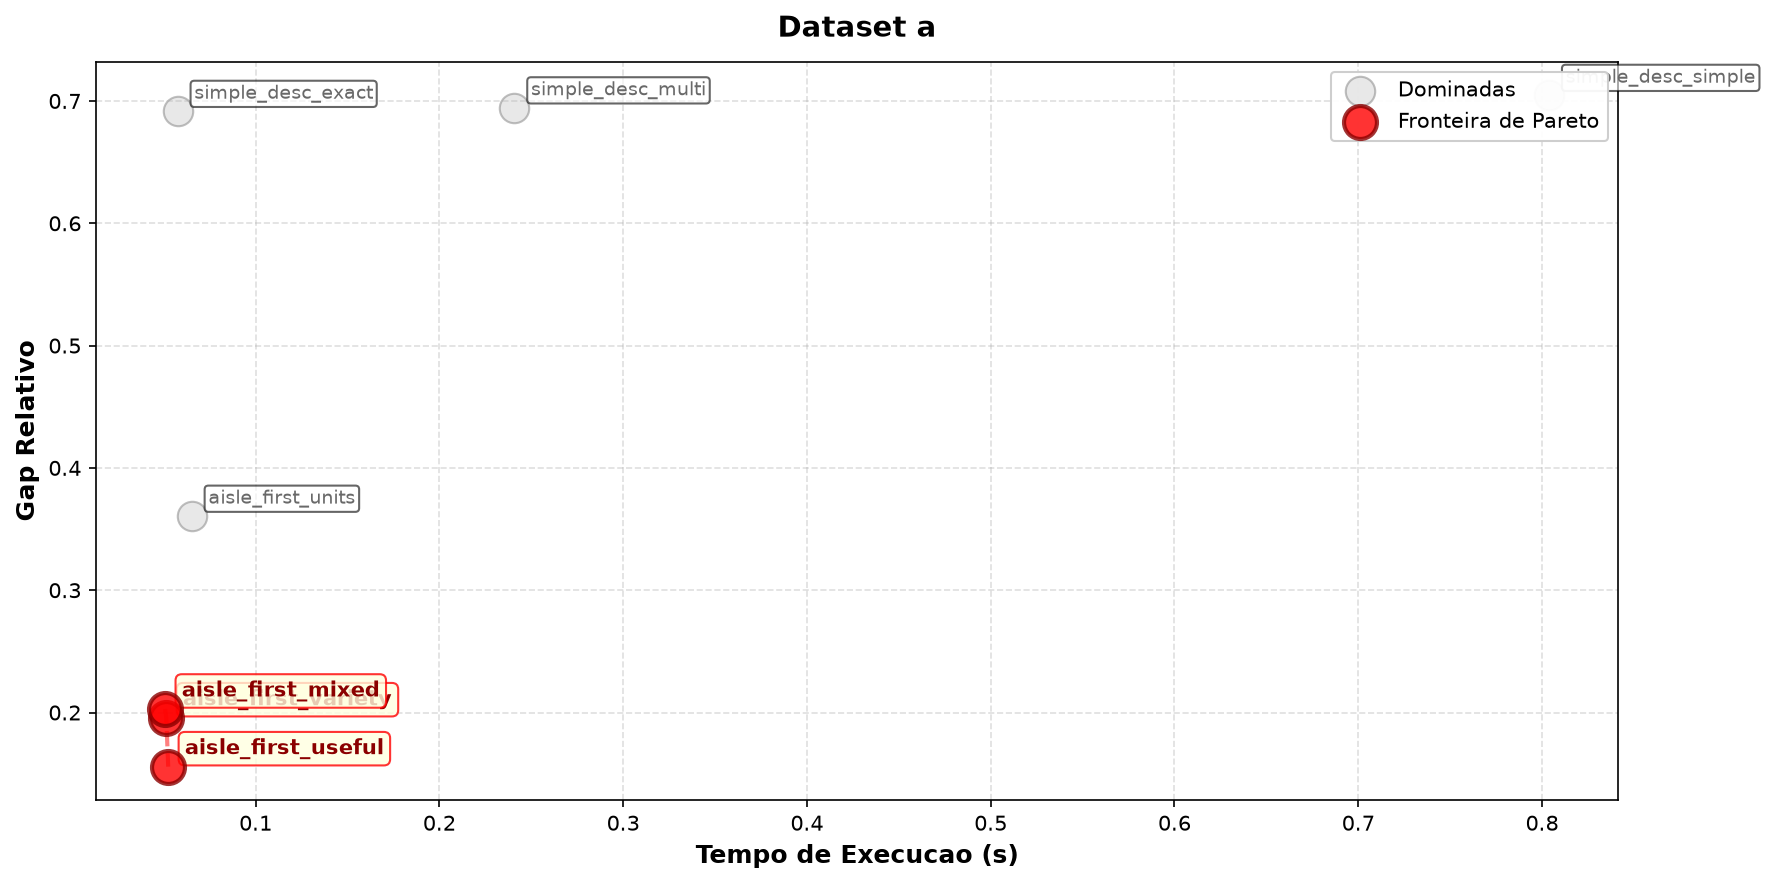
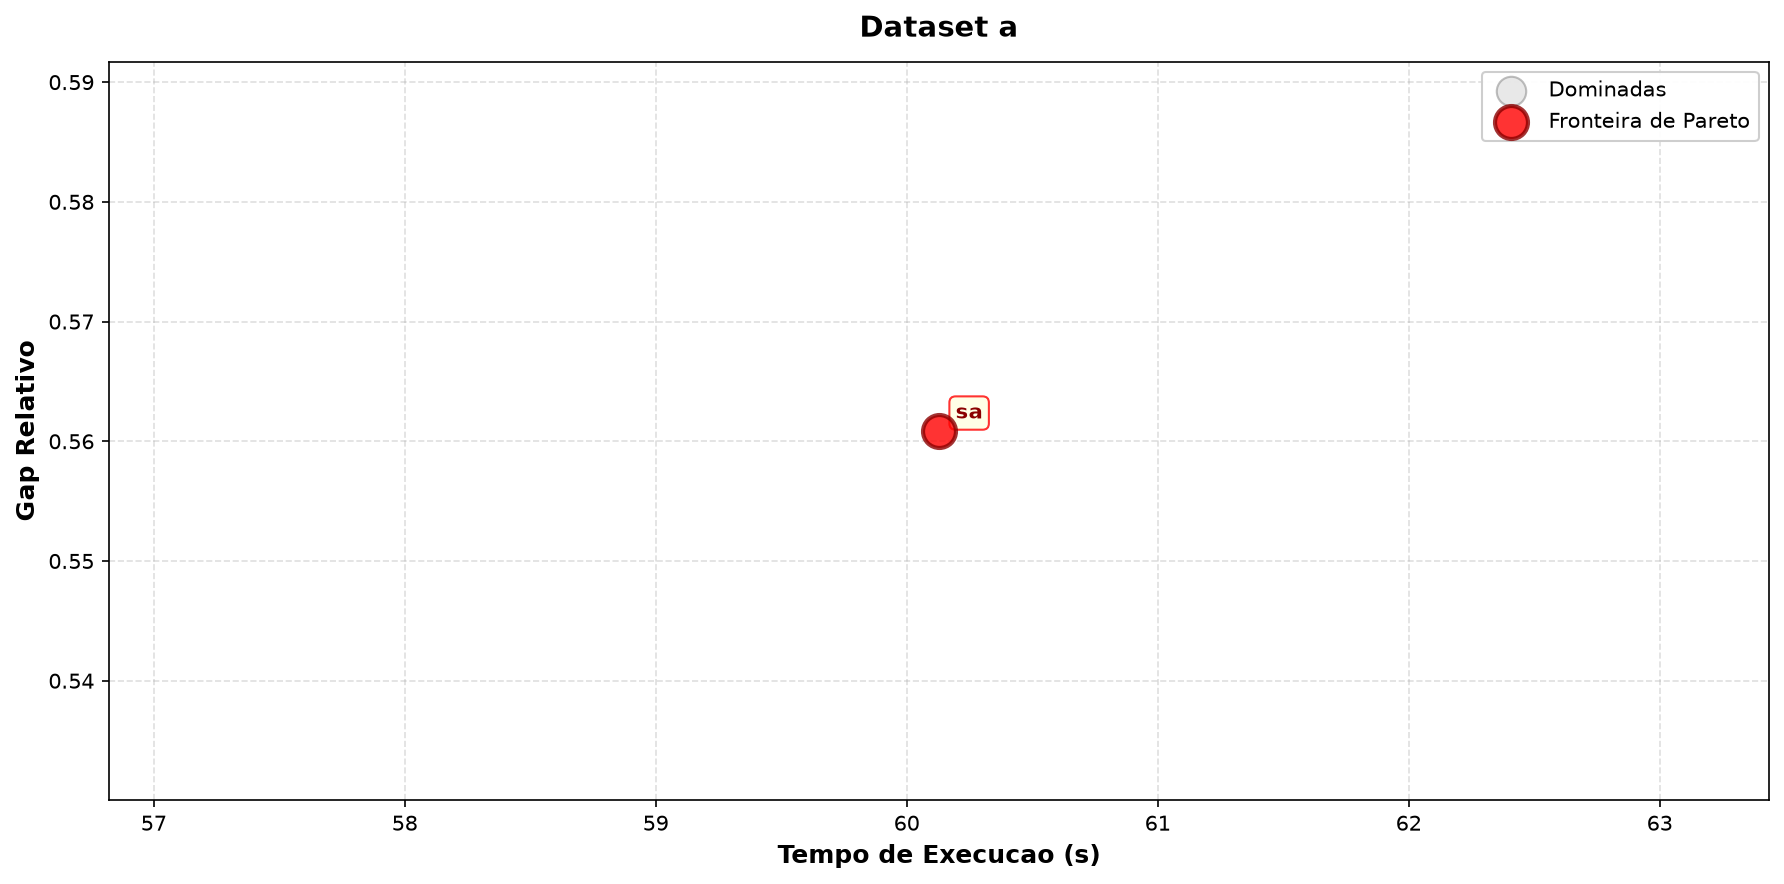
save

diff --git a/project/algos_java/heuristic/SA.java b/project/algos_java/heuristic/SA.java
@@ -60,19 +60,13 @@ public class SA extends Heuristic {
         // int nItersWithoutImprovement = 0;
         int itersInTemperature = 0;
 
-        final HashMap<String, Integer> moveStats = new HashMap<>();
-
         while (System.currentTimeMillis() < finalTimeMillis) {
 
             Move move = selectMove(solution);
-            if (move == null) break;
-
-            moveStats.put(move.name, moveStats.getOrDefault(move.name, 0) + 1);
+            if (move == null)
+                break;
 
             double delta = move.doMove(solution);
-
-            System.out.println(nIters + ": " + solution.getObj() + ", Move delta: " + delta + ", Temperature: "
-                    + temperature);
 
             // if solution is improved...
             if (delta > 0) {
@@ -82,7 +76,6 @@ public class SA extends Heuristic {
                 if (solution.getObj() > bestSolution.getObj()) {
                     bestSolution = solution.clone();
                     // Util.safePrintStatus(output, nIters, bestSolution, solution, "*");
-                    System.out.println("New best solution found: " + bestSolution.getObj());
                 }
             }
 
@@ -112,15 +105,10 @@ public class SA extends Heuristic {
                 if (temperature < EPS) {
                     temperature = t0;
                     // Util.safePrintText(output, "Re-heating Simulated Annealing", "");
-                    System.out.println("Re-heating Simulated Annealing");
                 }
             }
 
             nIters++;
-        }
-
-        for (Map.Entry<String, Integer> entry : moveStats.entrySet()) {
-            System.out.println("Move: " + entry.getKey() + ", Count: " + entry.getValue());
         }
 
         return bestSolution;
@@ -138,25 +126,26 @@ public class SA extends Heuristic {
         // alpha, Util.longToString(saMax), Util.longToString(( long ) t0));
     }
 
-    // private void estimateT0(Solution initialSolution, int nNeighbors, double ratio) {
-        // Solution solution = initialSolution.clone();
-        // List<Integer> neighborValues = new ArrayList<>(nNeighbors);
-        //
-        // for (int i = 0; i < nNeighbors; i++) {
-        // Move move = selectMove(solution);
-        // int delta = move.doMove(solution);
-        //
-        // neighborValues.add(delta);
-        // }
-        // neighborValues.sort(Integer::compare);
-        //
-        // int t = 1;
-        // int
-        //
-        // int idealDelta = neighborValues.get(( int ) (nNeighbors * ratio));
-        // 1/FastMath.log(delta / temperature);
-        //
-        // 1/ratio
+    // private void estimateT0(Solution initialSolution, int nNeighbors, double
+    // ratio) {
+    // Solution solution = initialSolution.clone();
+    // List<Integer> neighborValues = new ArrayList<>(nNeighbors);
+    //
+    // for (int i = 0; i < nNeighbors; i++) {
+    // Move move = selectMove(solution);
+    // int delta = move.doMove(solution);
+    //
+    // neighborValues.add(delta);
+    // }
+    // neighborValues.sort(Integer::compare);
+    //
+    // int t = 1;
+    // int
+    //
+    // int idealDelta = neighborValues.get(( int ) (nNeighbors * ratio));
+    // 1/FastMath.log(delta / temperature);
+    //
+    // 1/ratio
     // }
 
 }